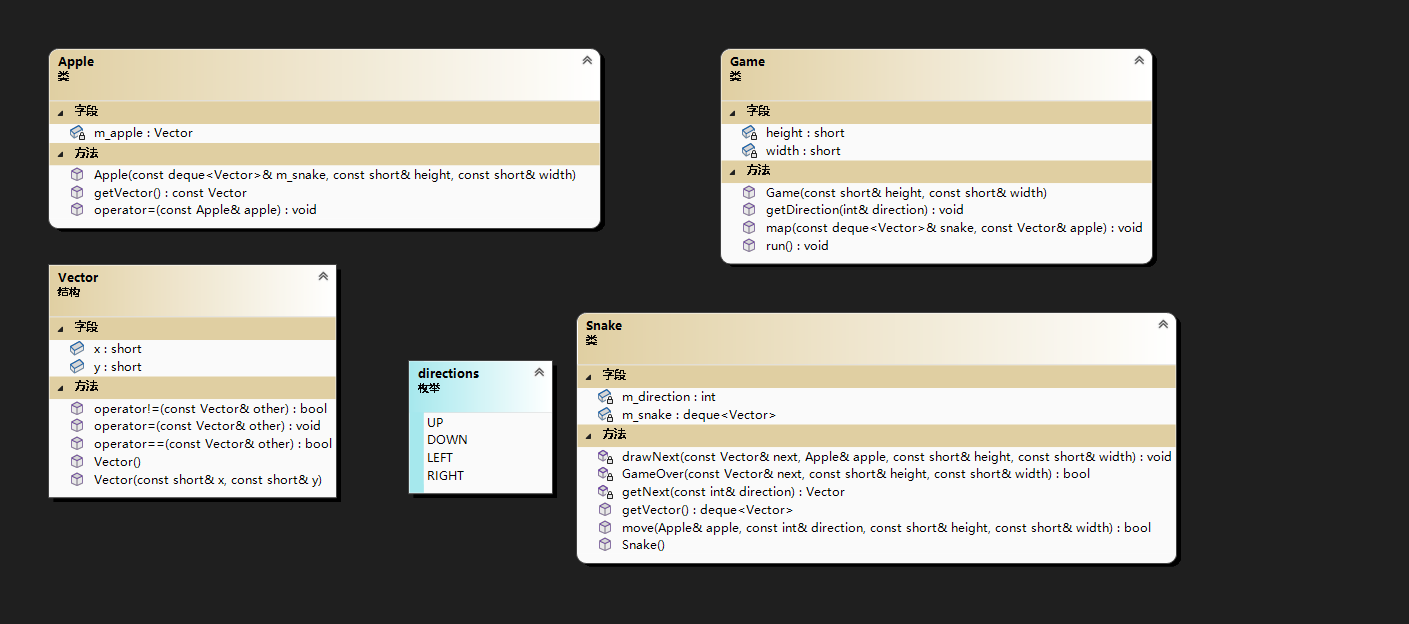
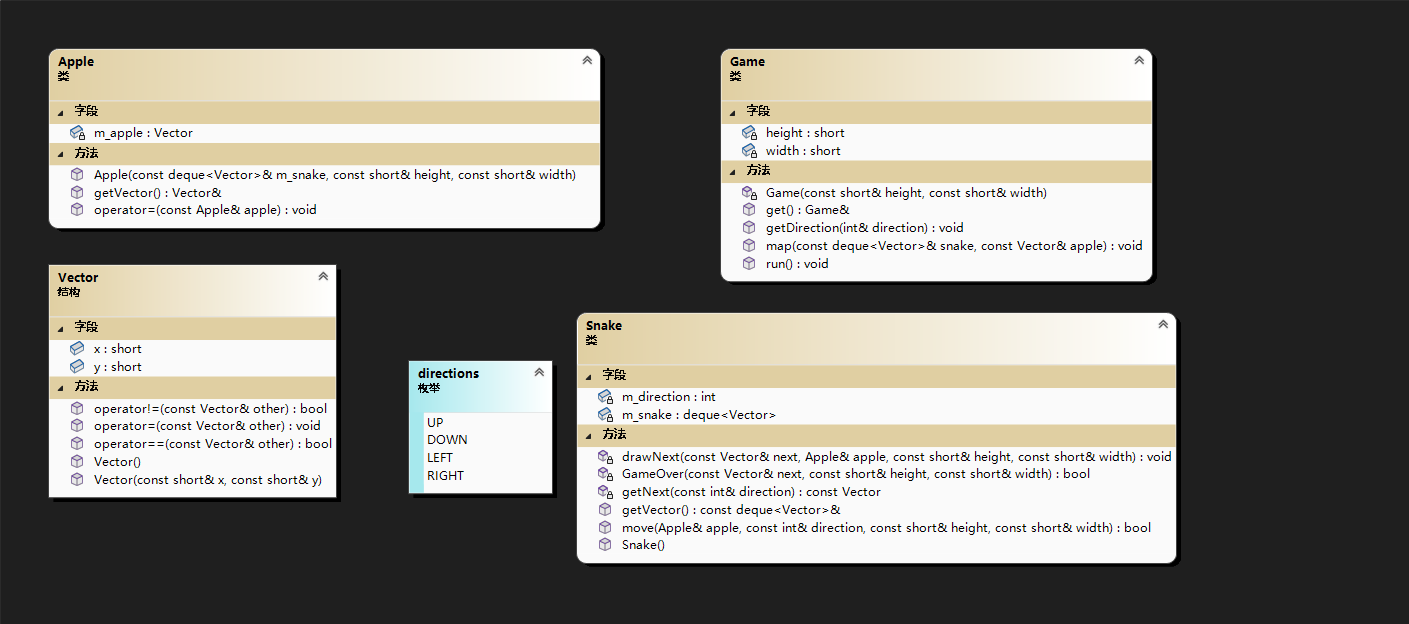
改为单例模式

Changed region(s): [[0.4996, 0.3045, 0.8432, 0.4567], [0.4996, 0.7612, 0.6246, 0.8221], [0.1249, 0.3045, 0.1874, 0.3349]]

diff --git a/Snake.hpp b/Snake.hpp
@@ -1,7 +1,6 @@
 #pragma once
 #include <deque>
-#include "Vector.hpp"
-#include "tools.hpp"
+#include "tools.hpp" 
 #include "Apple.hpp"
 #include <iostream>
 
@@ -23,12 +22,12 @@ private:
     std::deque<Vector> m_snake;
     int m_direction;
 
-    Vector getNext(const int &direction);
+    const Vector getNext(const int &direction) const;
     bool GameOver(const Vector &next, const short &height, const short &width) const;
     void Snake::drawNext(const Vector &next, Apple &apple, const short &height, const short &width);
 
 public:
     Snake();
     bool move(Apple &apple, const int &direction, const short &height, const short &width);
-    std::deque<Vector> getVector() const;
+    const std::deque<Vector> &getVector() const;
 };

diff --git a/Game.hpp b/Game.hpp
@@ -1,6 +1,5 @@
 #pragma once
-#include "Snake.hpp"
-#include "tools.hpp"
+#include "Snake.hpp" 
 #include <chrono>
 #include <thread>
 #include <conio.h>
@@ -11,10 +10,11 @@ class Game
 {
 private:
     short height, width;
+    Game(const short &height, const short &width);
 
 public:
-    Game(const short &height, const short &width);
+    static Game &get();
     void run();
     void map(const std::deque<Vector> &snake, const Vector &apple);
-    void getDirection(int &direction); 
+    void getDirection(int &direction);
 };

diff --git a/apple.hpp b/apple.hpp
@@ -8,6 +8,6 @@ private:
 
 public:
     Apple(const std::deque<Vector> &m_snake, const short &height, const short &width);
-    const Vector getVector() const;
+    Vector &getVector() const;
     void operator=(const Apple &apple);
 };

diff --git a/apple.cpp b/apple.cpp
@@ -21,7 +21,7 @@ Apple::Apple(const std::deque<Vector> &m_snake, const short &height, const short
     m_apple = Vector(x, y);
 }
 
-const Vector Apple::getVector() const
+Vector &Apple::getVector() const
 {
     return m_apple;
 }

diff --git a/main.cpp b/main.cpp
@@ -4,7 +4,6 @@
 
 int main()
 {
-    Game myGame = Game(16, 16);
-    myGame.run();
+    Game::get().run(); 
     return 0;
 }
